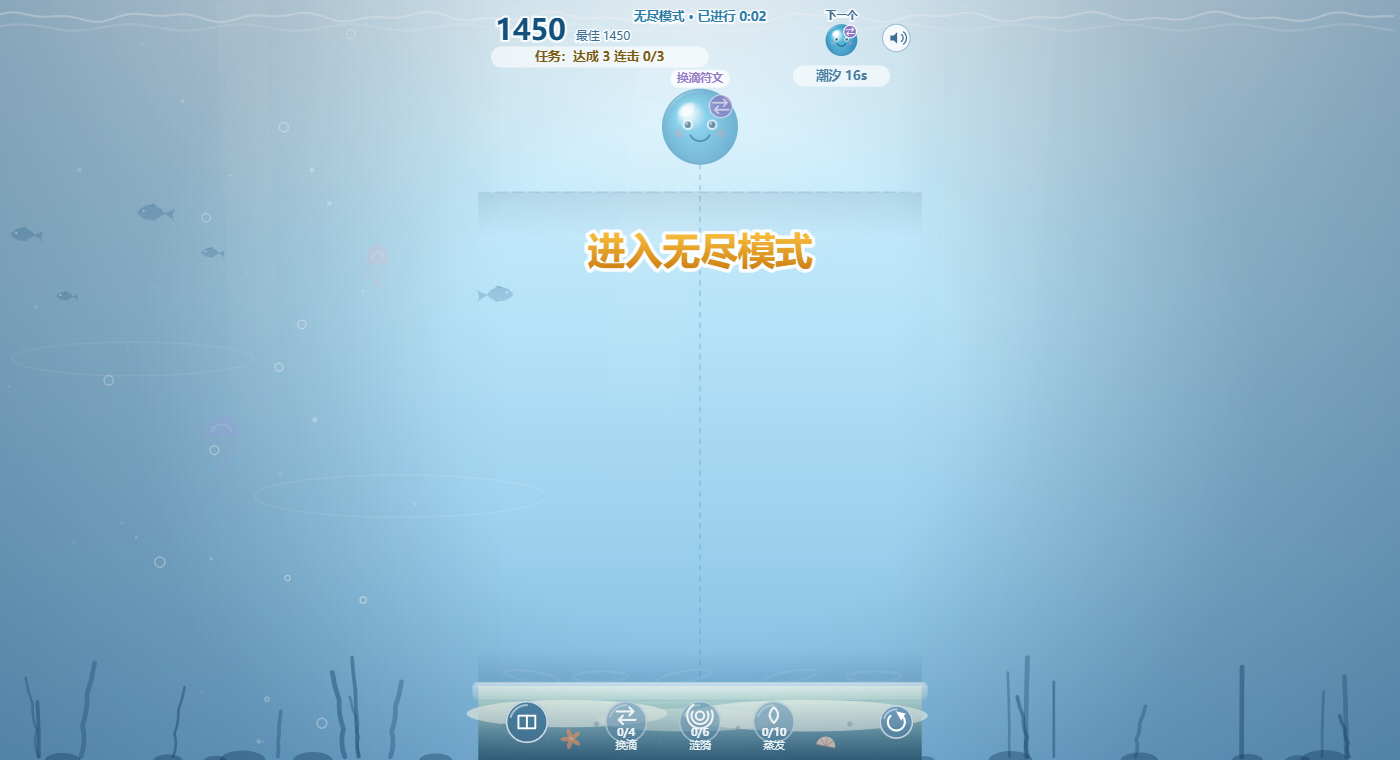
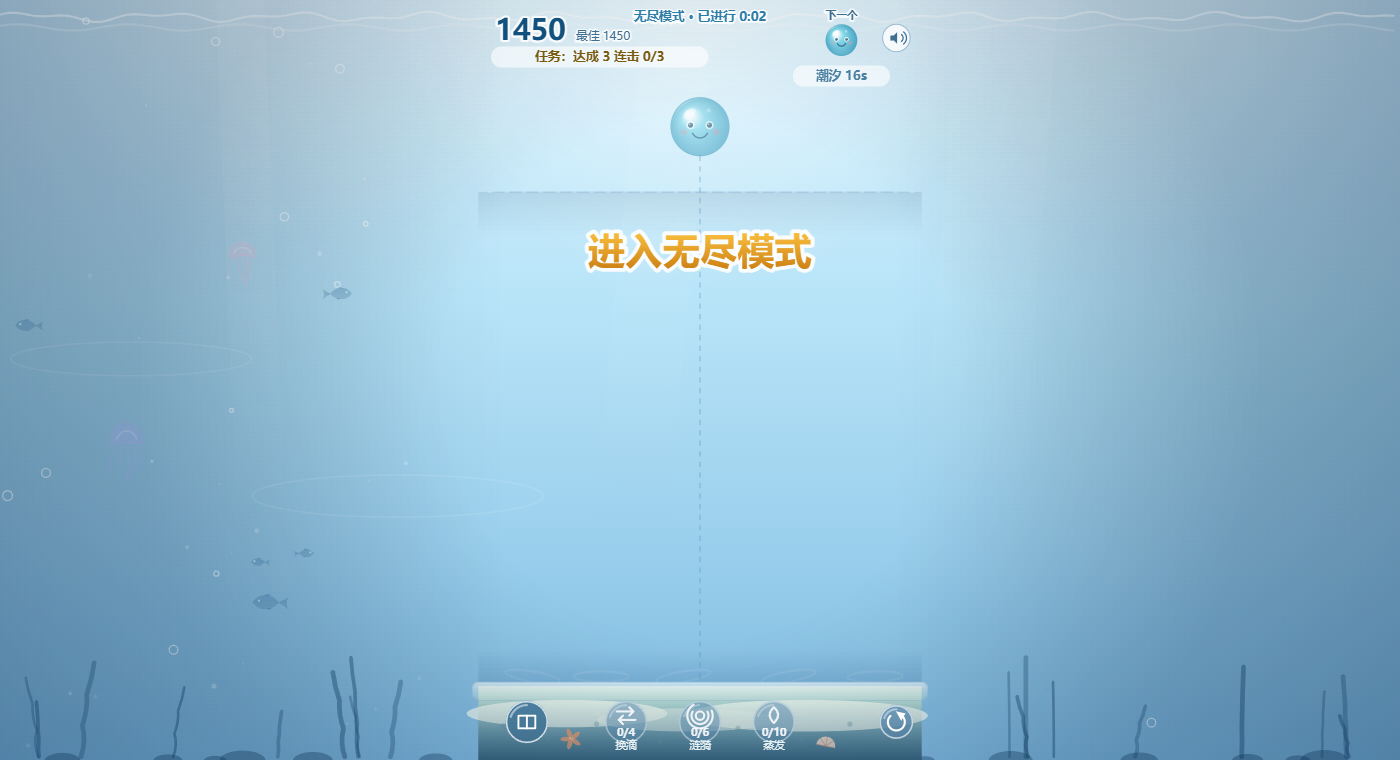
主题一致性巡检：①广告演示层重做——纯黑遮罩改为深海渐变暗化+上浮气泡+摇摆漂流瓶插画，文案改'深海漂流瓶·激励视频'，开发注释缩为底部小字；②漩涡系配色从紫色统一到海洋靛蓝(specialColor/漩涡徽记/漩涡粒子/消散环/风暴事件vfx共5处)。回归截图零报错；v=57

diff --git a/js/main.js b/js/main.js
@@ -419,7 +419,7 @@
     return sp === 'vortex' ? '漩涡滴' : (sp === 'cloud' ? '雨云滴' : (sp === 'ice' ? '冰晶滴' : '彩虹滴'));
   }
   function specialColor(sp) {
-    return sp === 'vortex' ? '#6A46B0' : (sp === 'cloud' ? '#3C6EAA' : (sp === 'ice' ? '#2E8FB8' : '#9B4FD0'));
+    return sp === 'vortex' ? '#4A5FC8' : (sp === 'cloud' ? '#3C6EAA' : (sp === 'ice' ? '#2E8FB8' : '#9B4FD0'));
   }
 
   function clampAim(x) {
@@ -810,7 +810,7 @@
       if (Math.random() < 0.3) {
         var ang = Math.random() * Math.PI * 2;
         parts.push({ type: 'dot', x: b.x + Math.cos(ang) * b.r, y: b.y + Math.sin(ang) * b.r,
-          vx: Math.cos(ang + 2) * 60, vy: Math.sin(ang + 2) * 60, r: 2, life: 0.3, max: 0.3, color: '#9B7FD4' });
+          vx: Math.cos(ang + 2) * 60, vy: Math.sin(ang + 2) * 60, r: 2, life: 0.3, max: 0.3, color: '#8FA8E8' });
       }
     }
     if (b.specialT >= C.vortex.delay + C.vortex.life) dissolveVortex(b);
@@ -834,7 +834,7 @@
     scoreBump = 0.25;
     addPopup(b.x, b.y - b.r - 10, '+' + gain, false, 0);
     burst(b.x, b.y, 5, false);
-    parts.push({ type: 'ring', x: b.x, y: b.y, r: 16, life: 0.45, max: 0.45, color: '#9B7FD4' });
+    parts.push({ type: 'ring', x: b.x, y: b.y, r: 16, life: 0.45, max: 0.45, color: '#8FA8E8' });
     phys.remove(b);
     audio.swirl();
   }
@@ -1226,7 +1226,7 @@
       ctx.save();
       ctx.translate(seaEvent.x, seaEvent.y);
       for (var k = 0; k < 3; k++) {
-        ctx.strokeStyle = 'rgba(120,90,220,' + (0.38 - k * 0.1) + ')';
+        ctx.strokeStyle = 'rgba(96,112,215,' + (0.38 - k * 0.1) + ')';
         ctx.lineWidth = 2.5;
         ctx.beginPath();
         for (var a2 = 0; a2 < Math.PI * 3.2; a2 += 0.25) {
@@ -2116,7 +2116,7 @@
   function drawVortexMark(r) {
     ctx.save();
     ctx.rotate(time * 4);
-    ctx.strokeStyle = 'rgba(120,80,190,0.85)';
+    ctx.strokeStyle = 'rgba(94,110,208,0.85)';
     ctx.lineWidth = Math.max(2, r * 0.09);
     ctx.lineCap = 'round';
     ctx.beginPath();
@@ -2900,17 +2900,41 @@
   }
 
   function drawAdOverlay() {
-    ctx.fillStyle = 'rgba(0,0,0,0.72)';
+    // 深海主题化广告演示层：暗化海水渐变 + 上浮气泡 + 漂流瓶，替代生硬的纯黑遮罩
+    var dim = ctx.createLinearGradient(0, 0, 0, VH);
+    dim.addColorStop(0, 'rgba(6,30,56,0.82)');
+    dim.addColorStop(1, 'rgba(4,18,36,0.88)');
+    ctx.fillStyle = dim;
     ctx.fillRect(-BX, 0, C.W + BX * 2, VH);
+    ctx.strokeStyle = 'rgba(160,220,255,0.25)';
+    ctx.lineWidth = 1.2;
+    for (var i = 0; i < 8; i++) {
+      var bx2 = 40 + i * 48 + Math.sin(time * 1.2 + i * 2.2) * 10;
+      var by2 = (VH + 20) - ((time * 46 + i * 97) % (VH + 40));
+      ctx.beginPath(); ctx.arc(bx2, by2, 3 + (i % 3), 0, Math.PI * 2); ctx.stroke();
+    }
+    // 漂流瓶（随水流轻摆）
+    ctx.save();
+    ctx.translate(C.W / 2, VH / 2 - 64);
+    ctx.rotate(Math.sin(time * 1.4) * 0.12);
+    ctx.fillStyle = 'rgba(150,220,200,0.9)';
+    roundRect(-13, -10, 26, 34, 8); ctx.fill();
+    ctx.fillStyle = 'rgba(196,238,222,0.95)';
+    roundRect(-7, -24, 14, 16, 5); ctx.fill();
+    ctx.fillStyle = '#C99046';
+    roundRect(-8, -30, 16, 7, 3); ctx.fill();
+    ctx.fillStyle = '#F5E9C8';
+    roundRect(-8, 0, 16, 12, 2); ctx.fill();
+    ctx.restore();
     ctx.textAlign = 'center';
     ctx.fillStyle = '#FFFFFF';
-    ctx.font = 'bold 22px system-ui, sans-serif';
-    ctx.fillText('广告位演示（激励视频）', C.W / 2, VH / 2 - 30);
-    ctx.font = '15px system-ui, sans-serif';
-    ctx.fillText(adOverlay.label + ' · ' + adOverlay.t.toFixed(1) + 's 后发放奖励', C.W / 2, VH / 2 + 4);
-    ctx.font = '13px system-ui, sans-serif';
-    ctx.fillStyle = 'rgba(255,255,255,0.7)';
-    ctx.fillText('上线微信时替换为 wx.createRewardedVideoAd', C.W / 2, VH / 2 + 34);
+    ctx.font = 'bold 20px system-ui, sans-serif';
+    ctx.fillText('深海漂流瓶 · 激励视频', C.W / 2, VH / 2 + 26);
+    ctx.font = '14px system-ui, sans-serif';
+    ctx.fillText(adOverlay.label + ' · ' + adOverlay.t.toFixed(1) + 's 后发放奖励', C.W / 2, VH / 2 + 52);
+    ctx.font = '11px system-ui, sans-serif';
+    ctx.fillStyle = 'rgba(255,255,255,0.55)';
+    ctx.fillText('（演示占位：上线微信时替换为 wx.createRewardedVideoAd）', C.W / 2, VH / 2 + 78);
   }
 
   function drawOver() {

diff --git a/index.html b/index.html
@@ -21,8 +21,8 @@
 </head>
 <body>
   <canvas id="game"></canvas>
-  <script src="js/config.js?v=56"></script>
-  <script src="js/physics.js?v=56"></script>
-  <script src="js/main.js?v=56"></script>
+  <script src="js/config.js?v=57"></script>
+  <script src="js/physics.js?v=57"></script>
+  <script src="js/main.js?v=57"></script>
 </body>
 </html>
